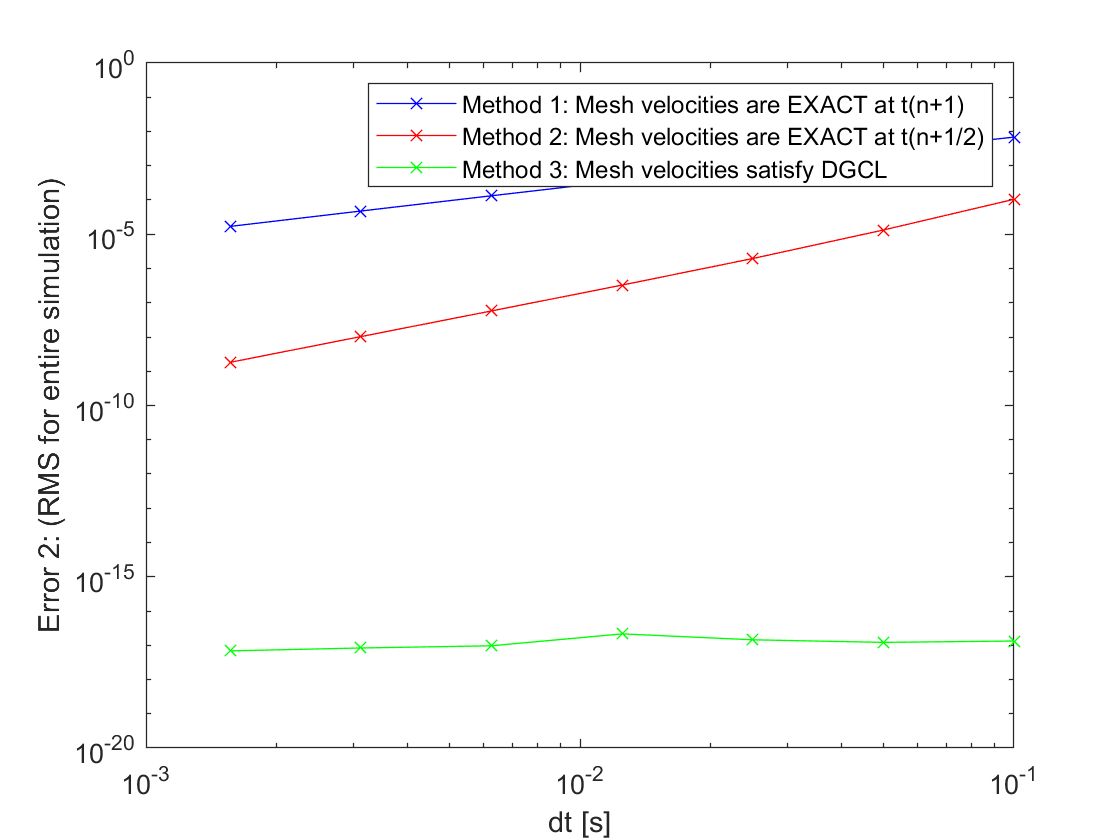
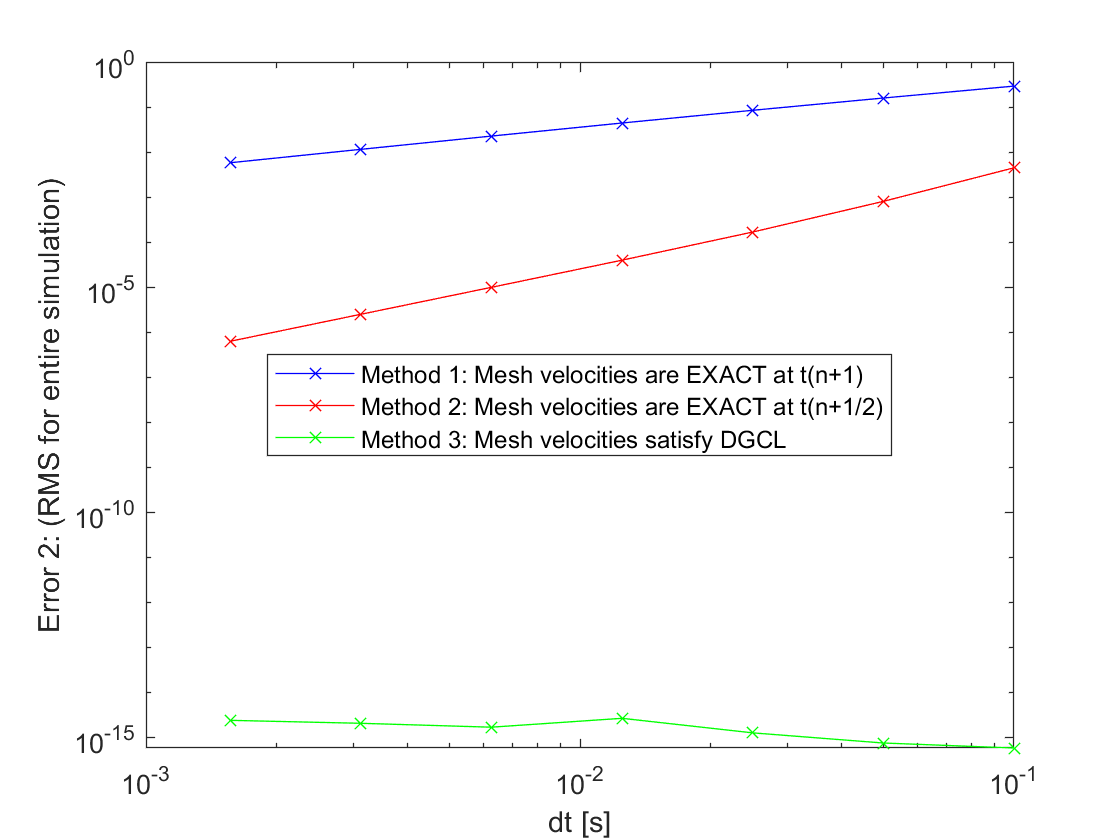
improved format of some plots

diff --git a/assignment_3/matlab/DGCL-1D/dgcl_BE_loop.m b/assignment_3/matlab/DGCL-1D/dgcl_BE_loop.m
@@ -115,7 +115,7 @@ loglog(dt_arr, e1_arr(:,1), 'b-x'); % method 1
 hold("on");
 loglog(dt_arr, e1_arr(:,2), 'r-x'); % method 2
 loglog(dt_arr, e1_arr(:,3), 'g-x'); % method 3
-legend('Method 1: Mesh velocities are EXACT at t(n+1)', 'Method 2: Mesh velocities are EXACT at t(n+1/2)','Method 3: Mesh velocities satisfy DGCL')
+legend('Method 1: Mesh velocities are EXACT at t(n+1)', 'Method 2: Mesh velocities are EXACT at t(n+1/2)','Method 3: Mesh velocities satisfy DGCL', 'Location', 'best')
 xlabel('dt [s]')
 ylabel('Error 1: (RMS at final time)')
 
@@ -126,7 +126,7 @@ loglog(dt_arr, e2_arr(:,1), 'b-x'); % method 1
 hold("on");
 loglog(dt_arr, e2_arr(:,2), 'r-x'); % method 2
 loglog(dt_arr, e2_arr(:,3), 'g-x'); % method 3
-legend('Method 1: Mesh velocities are EXACT at t(n+1)', 'Method 2: Mesh velocities are EXACT at t(n+1/2)','Method 3: Mesh velocities satisfy DGCL')
+legend('Method 1: Mesh velocities are EXACT at t(n+1)', 'Method 2: Mesh velocities are EXACT at t(n+1/2)','Method 3: Mesh velocities satisfy DGCL', 'Location', 'best')
 xlabel('dt [s]')
 ylabel('Error 2: (RMS for entire simulation)')
 
